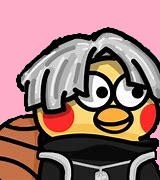
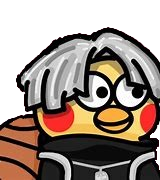
[功能] 支持带透明色的图片作为背景并删除原本用于实现透明的SetLayeredWindowAttributes方式

Changed region(s): [[0.0, 0.0, 1.0, 0.6944], [0.9375, 0.6667, 1.0, 0.9444]]

diff --git a/src/main.cpp b/src/main.cpp
@@ -117,12 +117,6 @@ int WINAPI wWinMain(HINSTANCE hInstance, [[maybe_unused]] HINSTANCE hPrevInstanc
         return 0;
     }
 
-    // 设置透明，这个版本颜色先写死在代码里
-    COLORREF crKey = 13217535; // 偏粉红色的颜色
-    SetLayeredWindowAttributes(hwnd, crKey, 0, LWA_COLORKEY);
-
-    ShowWindow(hwnd, nCmdShow); // 展示窗口
-
     // 初始化GDI+
     Gdiplus::GpStatus GDIpStatus; // 接收GDI+库的状态（错误码）
     Gdiplus::GdiplusStartupInput gdiplusStartupInput;
@@ -143,9 +137,19 @@ int WINAPI wWinMain(HINSTANCE hInstance, [[maybe_unused]] HINSTANCE hPrevInstanc
     GetExeDirectory(exePath, MAX_PATH);
     swprintf(imgPath, MAX_PATH, L"%ls\\%ls\\background.png", exePath, audioLibPath);
     delete[] exePath;
+    Gdiplus::Bitmap *pBitmap;
     if (FileExists(imgPath))
     {
         g_pBackgroundImage = new Gdiplus::Image(imgPath);
+        pBitmap = Gdiplus::Bitmap::FromFile(imgPath);
+        if (!pBitmap || pBitmap->GetLastStatus() != Gdiplus::GpStatus::Ok)
+        {
+            // 图片加载失败，创建红色矩形作为替代
+            pBitmap = new Gdiplus::Bitmap(160, 180);
+            Gdiplus::Graphics g(pBitmap);
+            Gdiplus::SolidBrush brush(Gdiplus::Color(255, 255, 0, 0));
+            g.FillRectangle(&brush, 0, 0, 160, 180);
+        }
     }
     else
     {
@@ -159,6 +163,33 @@ int WINAPI wWinMain(HINSTANCE hInstance, [[maybe_unused]] HINSTANCE hPrevInstanc
         return 0;
     }
     delete[] imgPath;
+
+    HBITMAP hBmp;
+    pBitmap->Gdiplus::Bitmap::GetHBITMAP(Gdiplus::Color(0, 0, 0, 0), &hBmp); // 透明背景
+
+    // 创建内存DC
+    HDC hdcScreen = GetDC(hwnd);
+    HDC memDC = CreateCompatibleDC(hdcScreen);
+    HBITMAP hOldBmp = (HBITMAP)SelectObject(memDC, hBmp);
+
+    // 获取图片尺寸
+    BITMAP bm;
+    GetObject(hBmp, sizeof(BITMAP), &bm);
+    SIZE size = {bm.bmWidth, bm.bmHeight};
+
+    // 使用UpdateLayeredWindow
+    POINT ptSrc = {0, 0};
+    BLENDFUNCTION bf = {AC_SRC_OVER, 0, 255, AC_SRC_ALPHA};
+    UpdateLayeredWindow(hwnd, hdcScreen, NULL, &size, memDC, &ptSrc, 0, &bf, ULW_ALPHA);
+
+    // 清理
+    SelectObject(memDC, hOldBmp);
+    DeleteDC(memDC);
+    ReleaseDC(hwnd, hdcScreen);
+    DeleteObject(hBmp);
+
+    ShowWindow(hwnd, nCmdShow);
+    UpdateWindow(hwnd);
 
     // 安装键盘钩子
     KeyboardHook = SetWindowsHookExW(
@@ -239,6 +270,7 @@ int WINAPI wWinMain(HINSTANCE hInstance, [[maybe_unused]] HINSTANCE hPrevInstanc
     // 关闭GDI+和COM库
     Gdiplus::GdiplusShutdown(g_gdiplusToken);
     CoUninitialize();
+    delete pBitmap;
 
     return 0;
 }

diff --git a/CONTRIBUTING.md b/CONTRIBUTING.md
@@ -15,7 +15,6 @@
   - 按键后的自动背景图片切换
   - 设置窗口简单实现
   - 透明度设置
-  - 支持自定义背景穿透色
 - V1.3.0.0
   - 多音频库并存
   - Beep模式
@@ -28,7 +27,7 @@
 - V2.0.0.0
   - 支持mp3格式音频
   - 音频混合模式
-  - 支持透明背景图片
+  - [x]支持透明背景图片
   - 支持多种格式的背景图片
   - 声音库自带背景图片
 - V2.1.0.0
